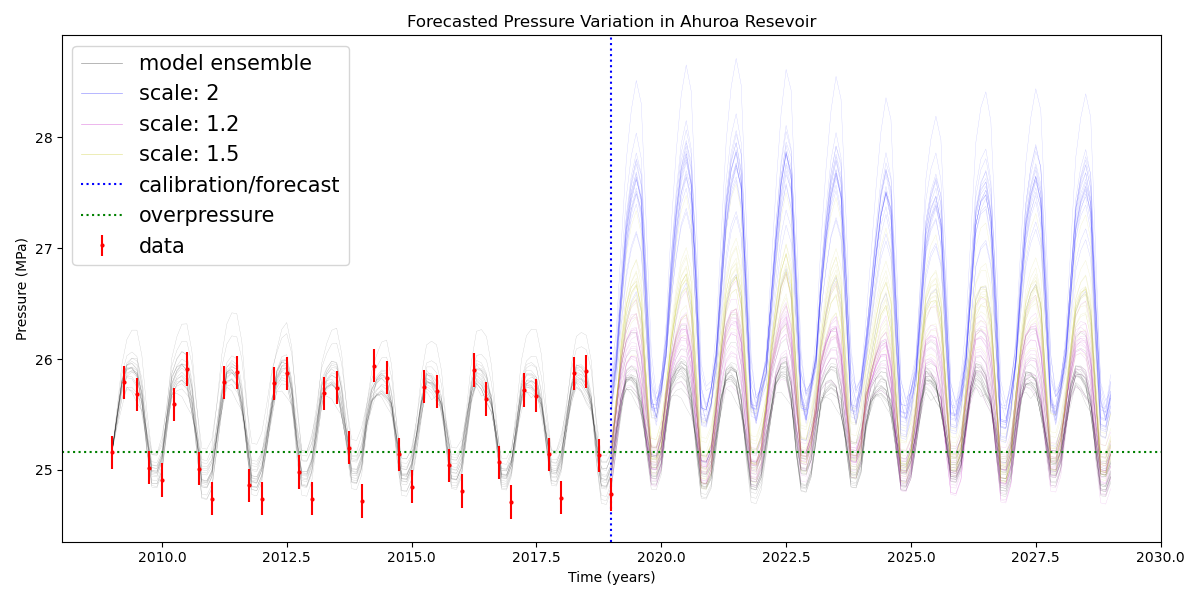
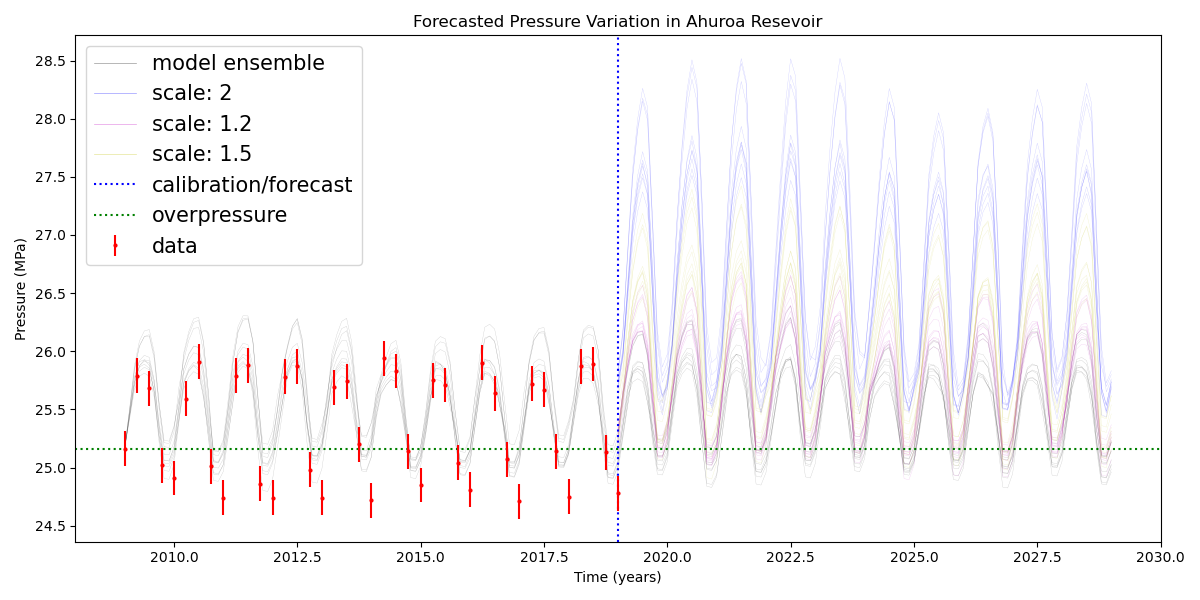
Added docstrings and comments

diff --git a/Model_uncertainty2.py b/Model_uncertainty2.py
@@ -26,7 +26,7 @@ def grid_search():
     b_best = 0.026
 
     # Number of values considered for each parameter within a given interval
-    N = 20
+    N = 10
 
     # Vectors of parameter values
     a = np.linspace(a_best /2 ,a_best *1.5, N)
@@ -246,6 +246,7 @@ def leakage_forecasting(samples):
 
     # For each sample, solving model and plotting cumulative pressure change at different capacities
 
+    # Initialising ranges for each leakage scenario after 20 years since the beginning of the time domain
     s1min = 100
     s1max = -100
 
@@ -294,7 +295,7 @@ def leakage_forecasting(samples):
         ax2.plot(modelFTime, cumulLeakF4, 'g-', lw=0.25, alpha=0.2)
 
 
-
+        # Calculating minimum and maximum final leakage value for each operation capacity scenario
         if cumulLeakF1[-1]  < s1min:
             s1min = cumulLeakF1[-1]
 
@@ -311,12 +312,12 @@ def leakage_forecasting(samples):
             s3min = cumulLeakF3[-1]
 
         if cumulLeakF3[-1]  > s3max:
-            s3max = cumulLeakF3
+            s3max = cumulLeakF3[-1]
 
         if cumulLeakF4[-1]  < s4min:
             s4min = cumulLeakF4[-1]
 
-        if cumulLeakF1[-1] > s4max:
+        if cumulLeakF4[-1] > s4max:
             s4max = cumulLeakF4[-1]
 
 
@@ -327,12 +328,18 @@ def leakage_forecasting(samples):
     ax2.plot([], [], 'g-', lw=0.5, alpha=0.4, label='scale: 2')
     ax2.axvline(2019, color='b', linestyle=':', label='calibration/forecast')
 
+    # Printing minimum and maximum final leakage value for each operation capacity scenario
+
+    print("Minimum and maximum leakage value for scenario 1")
     print(s1min)
     print(s1max)
+    print("Minimum and maximum leakage value for scenario 2")
     print(s2min)
     print(s2max)
+    print("Minimum and maximum leakage value for scenario 3")
     print(s3min)
     print(s3max)
+    print("Minimum and maximum leakage value for scenario 4")
     print(s4min)
     print(s4max)
 
@@ -453,7 +460,7 @@ def present_plots():
     a, b, posterior = grid_search()
 
     # Setting number of samples
-    N = 20
+    N = 10
 
     # Collecting sampled values for parameters
     samples = construct_samples(a, b, posterior, N)
